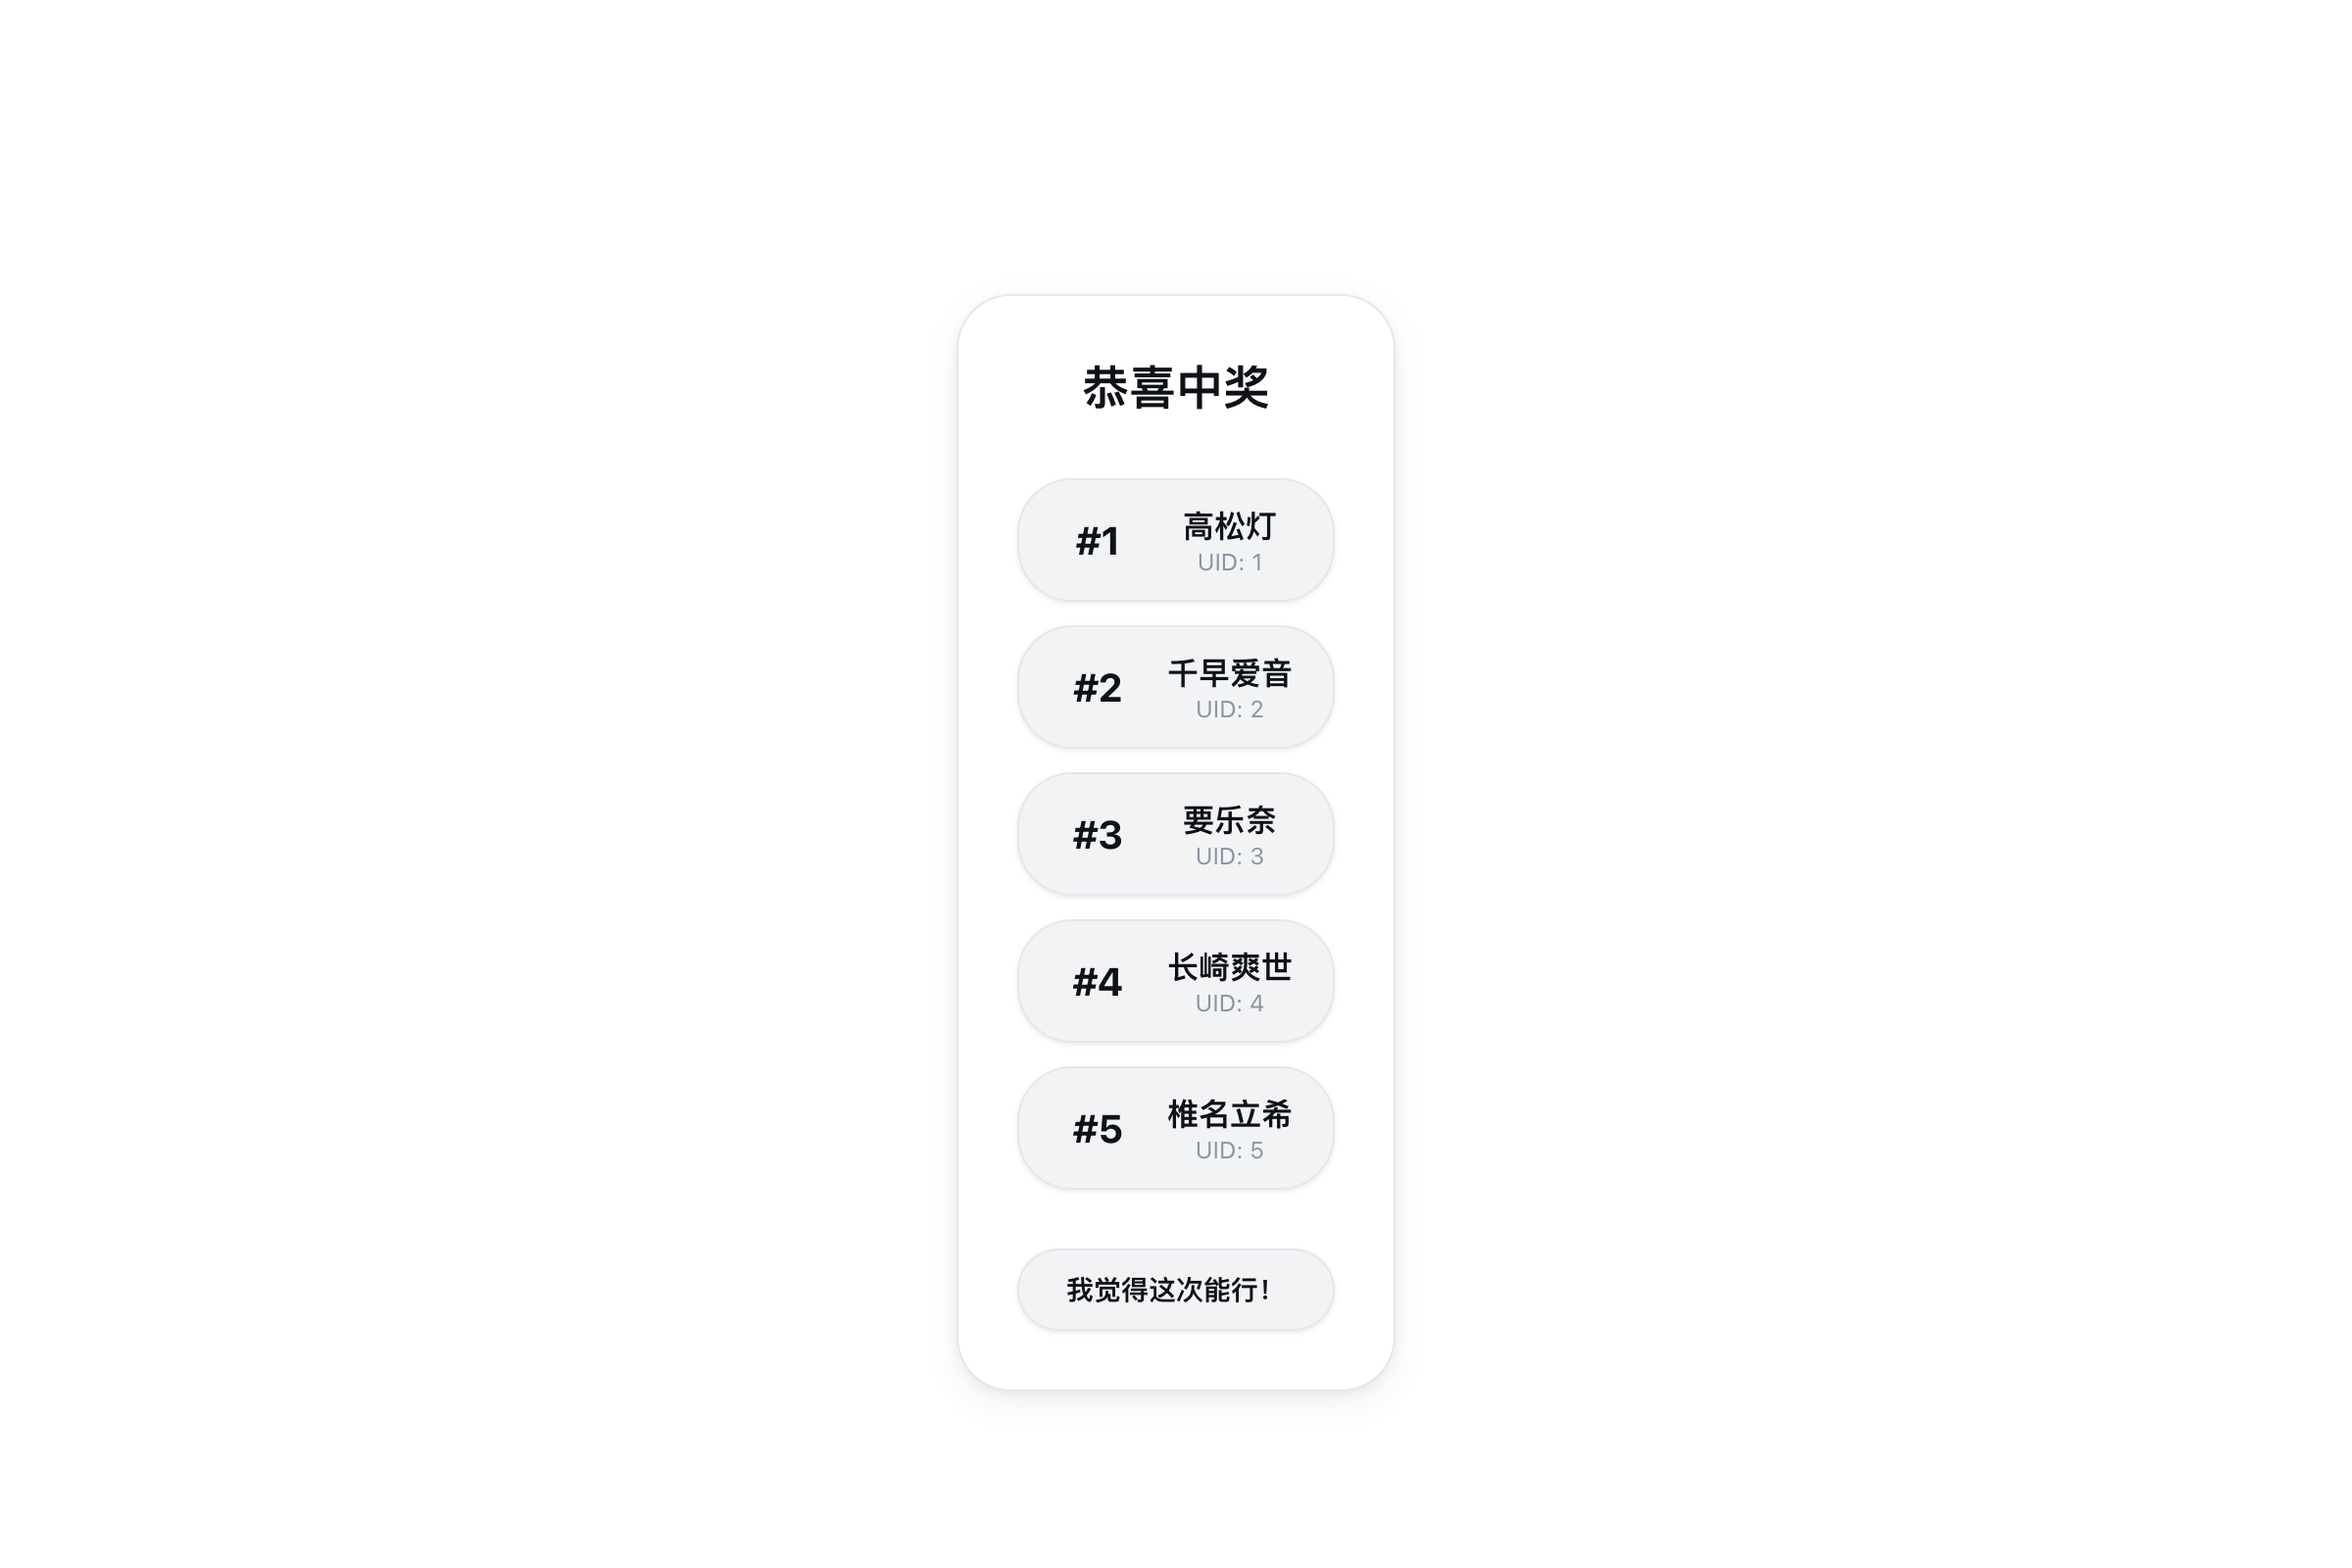
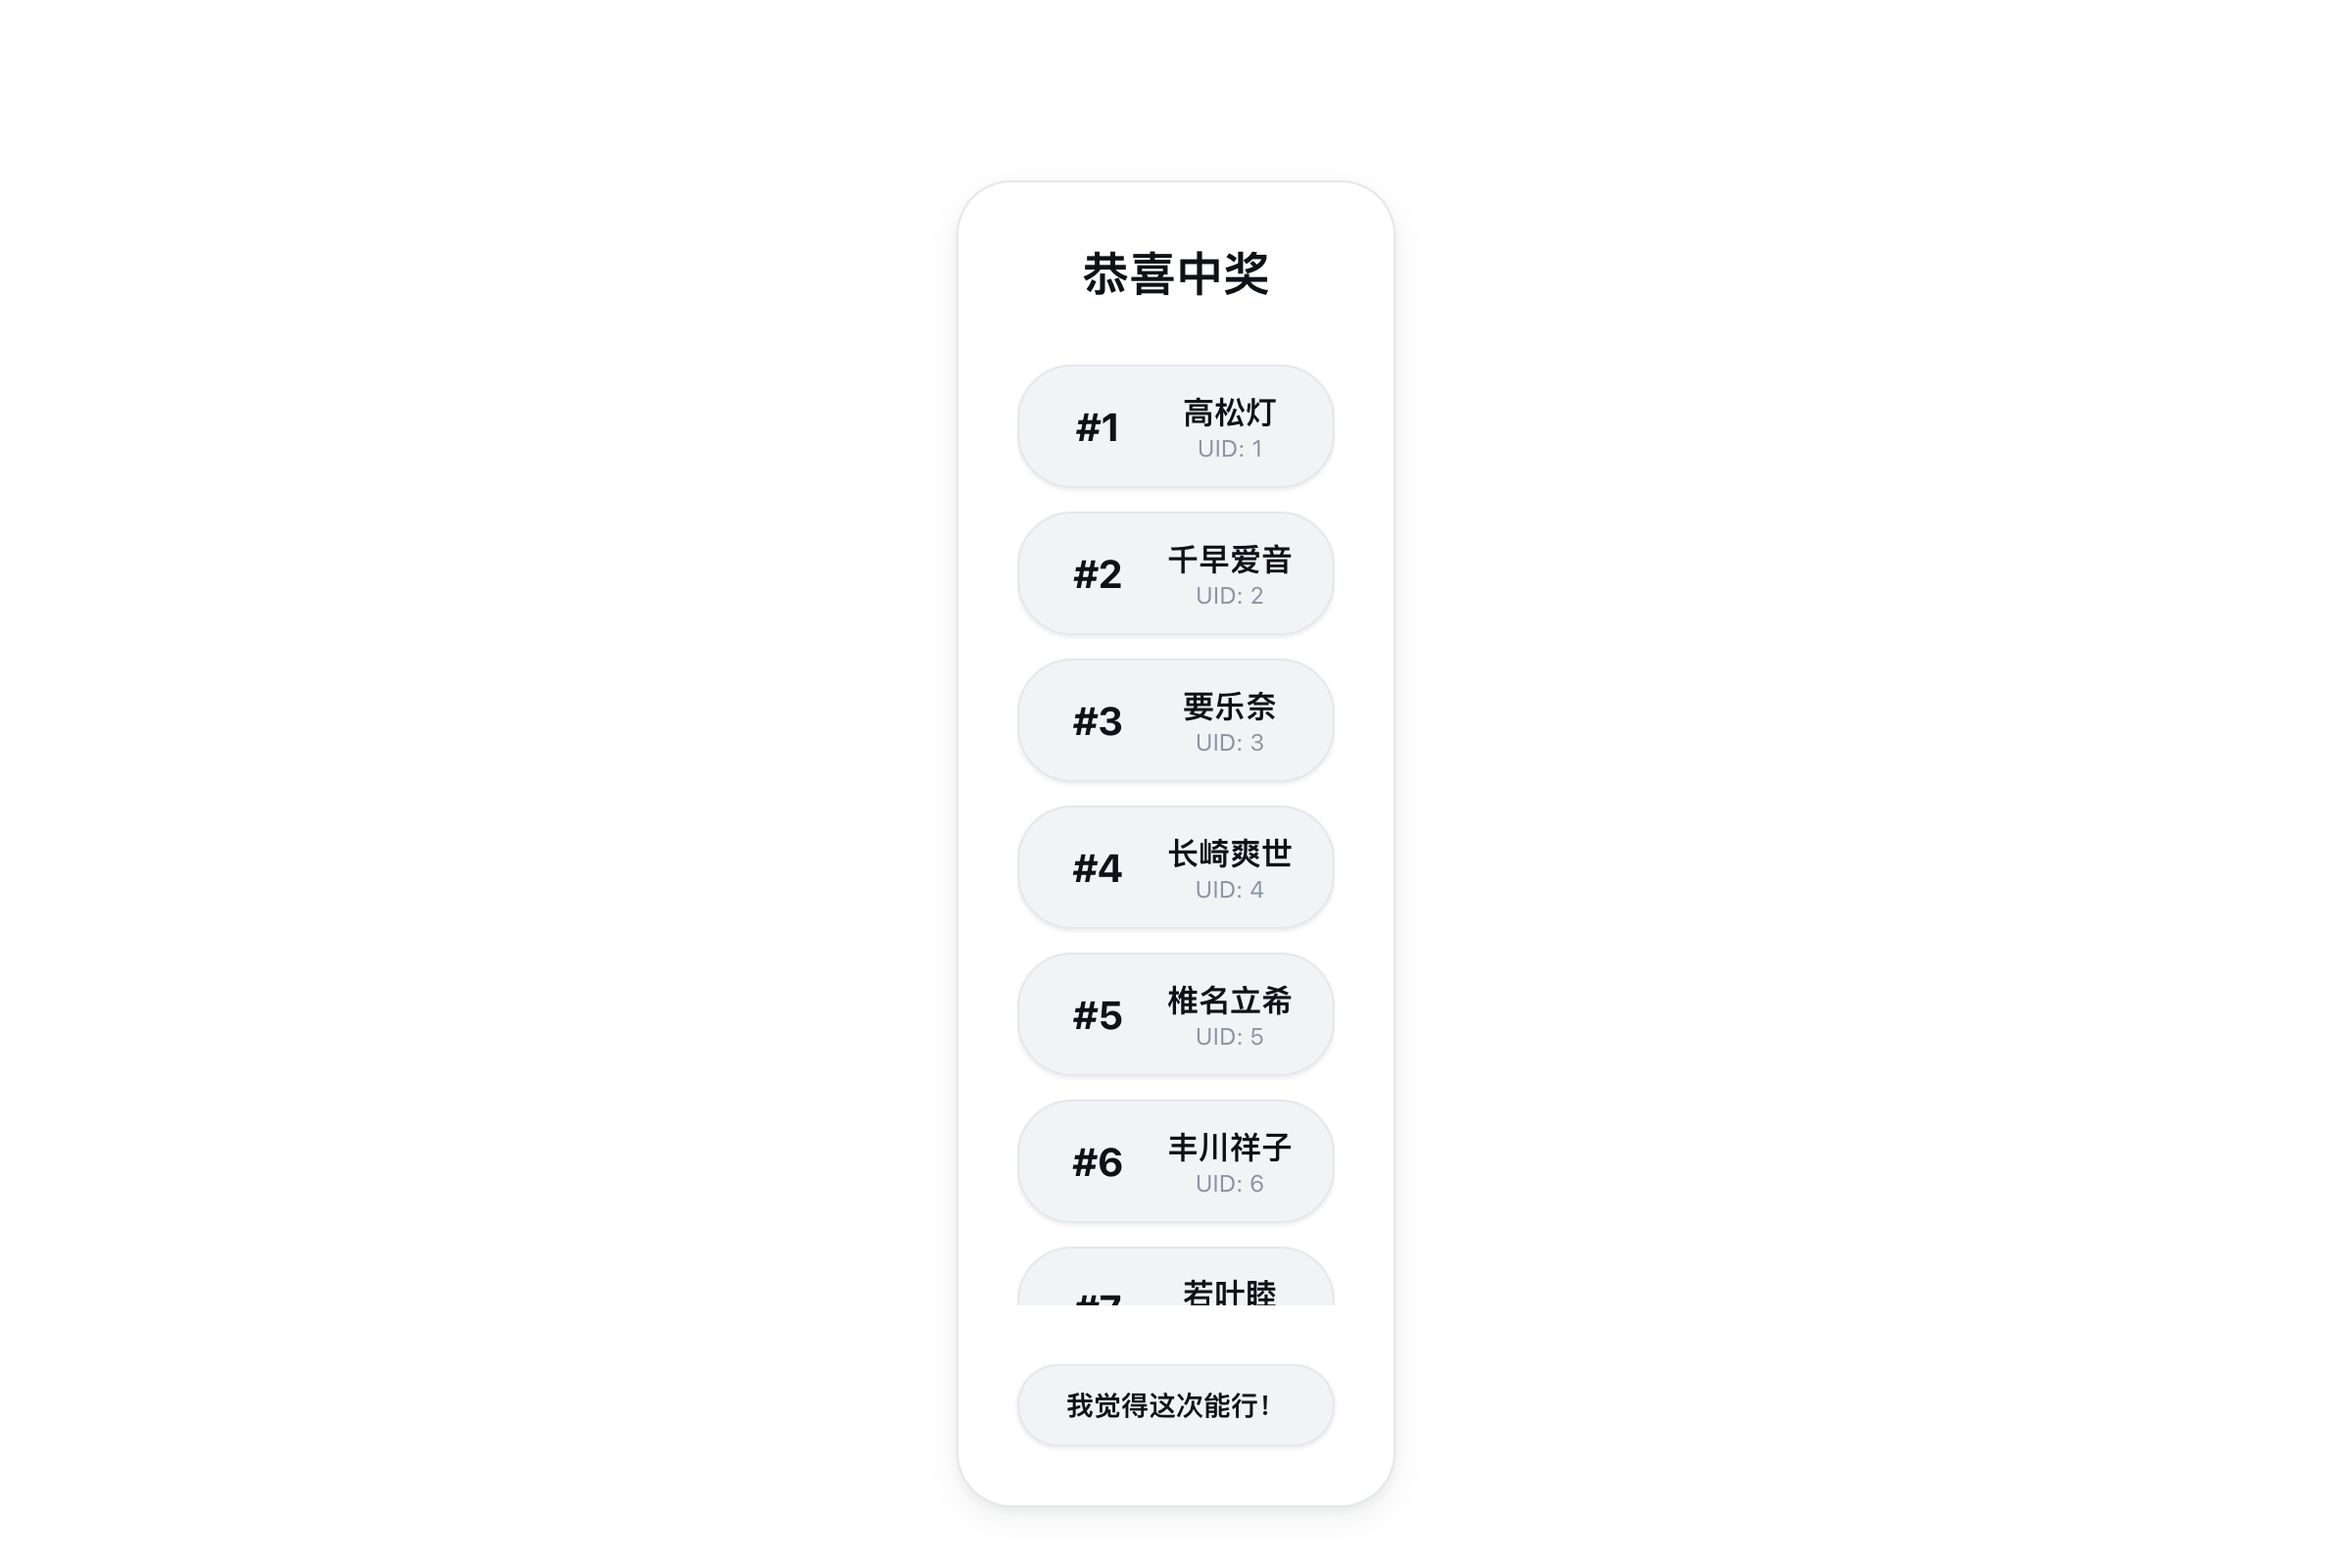
docs: 新增历史/导出说明、截图与开发日志页

diff --git a/docs/.vitepress/config.ts b/docs/.vitepress/config.ts
@@ -33,6 +33,7 @@ export default withMermaid(
 					{ text: '架构', link: '/architecture/overview' },
 					{ text: '开发', link: '/development/setup' },
 					{ text: '应用场景', link: '/use-cases/scenarios' },
+					{ text: '开发日志', link: '/development/changelog' },
 				],
 				sidebar: [
 					{
@@ -61,6 +62,7 @@ export default withMermaid(
 							{ text: '环境准备', link: '/development/setup' },
 							{ text: '构建与打包', link: '/development/build' },
 							{ text: '前端绑定', link: '/development/bindings' },
+							{ text: '开发日志', link: '/development/changelog' },
 						],
 					},
 					{
@@ -80,6 +82,7 @@ export default withMermaid(
 					{ text: 'Architecture', link: '/en/architecture/overview' },
 					{ text: 'Development', link: '/en/development/setup' },
 					{ text: 'Use Cases', link: '/en/use-cases/scenarios' },
+					{ text: 'Changelog', link: '/en/development/changelog' },
 				],
 				sidebar: [
 					{
@@ -108,6 +111,7 @@ export default withMermaid(
 							{ text: 'Setup', link: '/en/development/setup' },
 							{ text: 'Build & Package', link: '/en/development/build' },
 							{ text: 'Frontend Bindings', link: '/en/development/bindings' },
+							{ text: 'Changelog', link: '/en/development/changelog' },
 						],
 					},
 					{

diff --git a/docs/en/intro/features.md b/docs/en/intro/features.md
@@ -13,6 +13,16 @@ Once connected to a live room, the app continuously listens to danmaku. Any view
 
 Keep a separate profile for each scenario — each one holds its own keyword, winner count, watched rooms and background image. Switch with one click before going live; everything is preserved across switches and restarts.
 
+## Draw history & export
+
+Every draw is automatically recorded as a history entry, bound to the active profile — it stores the keyword, winner count, draw time and the full winner list. The "Lottery History" card in Settings shows every entry for the current profile:
+
+- **Export one**: click "Export" on an entry, pick where to save, and the winner list is exported as a Markdown file named `keyword-count-time.md` with a table of nickname + UID.
+- **Delete one**: remove a history entry you no longer need.
+- **Delete all**: clear every entry for the current profile in one click.
+
+Switching profiles switches the history list to that profile's entries. Deleting a profile clears its history along with it.
+
 ## Four themes
 
 Four built-in looks, switchable any time while running:
@@ -32,3 +42,7 @@ Your choice is remembered across restarts. Spring-festival and beach ship with a
 - Custom watched rooms — monitor several rooms at once, with participants merged into one pool
 - Custom winner count — anywhere from 1 to 9999
 - Custom background image — applies under light / dark (spring-festival and beach use their bundled backgrounds)
+
+## Winner-list display
+
+When there are many winners, the winner-list card caps its height and scrolls internally (the scrollbar is hidden), so the lottery page itself never scrolls vertically and stays visually clean.

diff --git a/docs/intro/features.md b/docs/intro/features.md
@@ -13,6 +13,16 @@
 
 为不同场景各存一套配置（Profile），每套独立保存关键词、中奖人数、监控房间和背景图。开播前一键切换，互不干扰，自动保留。
 
+## 抽奖历史与导出
+
+每次开奖都会自动记录一条历史，绑定在当前抽奖配置下——包含关键词、中奖人数、开奖时间和完整中奖名单。在设置页的「抽奖历史」卡片里可以查看某套配置下的全部历史：
+
+- **单条导出**：点击某条历史的「导出」，选择保存位置，中奖名单会以 `关键词-人数-时间.md` 命名导出为 Markdown 文件，内容为「昵称 + UID」的中奖表格。
+- **单条删除**：删除不需要的历史记录。
+- **全部删除**：一键清空当前配置下的所有历史。
+
+切换配置时，历史列表会自动切换到对应配置的记录。删除某套配置时，其下的历史也会一并清除。
+
 ## 四套主题
 
 内置四种界面风格，运行时随时切换：
@@ -32,3 +42,7 @@
 - 自定义监控房间——支持同时监控多个直播间，参与者合并到同一个抽奖池
 - 自定义中奖人数——1 到 9999 随心设置
 - 自定义背景图——日间 / 夜间主题生效（春节和海滩使用自带背景）
+
+## 中奖名单显示优化
+
+中奖人数较多时，中奖名单卡片会限制最大高度，超出部分在卡片内部滚动（滚动条自动隐藏），保证抽奖页面整体不会纵向滚动，视觉始终干净稳定。

diff --git a/docs/en/intro/quickstart.md b/docs/en/intro/quickstart.md
@@ -17,8 +17,15 @@ Open Settings and enter the IDs of the rooms you want to monitor. You can add se
 
 ## 4. Start a draw
 
-Back on the home screen, set the keyword and winner count in the top bar, then click **Start**. As viewers send danmaku containing the keyword, the participant count rises in real time. When you're ready to draw, click **Stop** and the randomly picked winners appear right away.
+Back on the home screen, set the keyword and winner count in the top bar, then click **Start**. As viewers send danmaku containing the keyword, the participant count rises in real time. When you're ready to draw, click **Stop** and the randomly picked winners appear right away. With many winners, the list scrolls inside the card without affecting the page layout.
 
-## 5. Switch theme & language
+## 5. View & export history
+
+Every draw is automatically recorded under the active profile's history. In Settings, the "Lottery History" card lets you:
+
+- Click "Export" on an entry, pick where to save, and the winner list is exported as a Markdown file named `keyword-count-time.md`.
+- Delete a single history entry, or click "Delete All" to clear every entry for the current profile.
+
+## 6. Switch theme & language
 
 In Settings, under "Appearance", you can switch the theme (light / dark / spring-festival / beach) and the language (中文 / English). Changes apply instantly and are remembered.

diff --git a/docs/en/development/changelog.md b/docs/en/development/changelog.md
@@ -1,0 +1,36 @@
+# Changelog
+
+## v1.1
+
+- Draw history is recorded automatically and bound to its profile — switching profiles switches history
+- Export the winner list to Markdown in one click, named `keyword-count-time`
+- Long winner lists scroll inside the card; the lottery page no longer overflows
+
+## v1.0
+
+- Docs site launched, bilingual (zh / en), auto-deployed to GitHub Pages
+- Architecture and data-flow redrawn with Mermaid; docs fully rewritten
+- Fixed message-toast jitter and a QR-login cookie-fetch bug
+
+## v0.9
+
+- Added the beach theme, completing the four-theme set (light / dark / spring-festival / beach)
+- Light / Dark rebuilt to the Cirrus spec — pure CSS, pill corners, layered shadows
+- Built-in zh / en switch, defaulting to Chinese
+
+## v0.8
+
+- Upgraded to Wails v3, switched to a Taskfile build
+- Backend rewritten in layers: app → service → domain + event; service no longer depends on Wails
+- Removed the unused dynamic-lottery dead code
+- `live:user_join` events drive the participant count in real time
+
+## v0.7
+
+- Multiple draw profiles, each with its own keyword, rooms and background — switch with one click
+- QR-code login, alongside Cookie login
+- Auto-reconnect on dropped danmaku connections
+
+## v0.6
+
+- First release: danmaku monitoring, keyword matching, UID dedup, random draw

diff --git a/docs/intro/quickstart.md b/docs/intro/quickstart.md
@@ -17,8 +17,15 @@
 
 ## 4. 开始抽奖
 
-回到首页，在顶栏设置参与关键词和中奖人数，然后点「开始」。观众发送含关键词的弹幕后，参与人数会实时上涨；想开奖时点「停止」，随机抽出的中奖名单会立刻展示出来。
+回到首页，在顶栏设置参与关键词和中奖人数，然后点「开始」。观众发送含关键词的弹幕后，参与人数会实时上涨；想开奖时点「停止」，随机抽出的中奖名单会立刻展示出来。中奖人数较多时，名单会在卡片内滚动，不影响页面整体布局。
 
-## 5. 切换主题与语言
+## 5. 查看与导出历史
+
+每次开奖都会自动记录到当前配置的历史里。进入设置页，在「抽奖历史」卡片可以查看：
+
+- 点击某条历史的「导出」，选择保存位置，中奖名单会以 `关键词-人数-时间.md` 导出为 Markdown。
+- 可以单条删除历史，或点「全部删除」一键清空当前配置下的历史。
+
+## 6. 切换主题与语言
 
 在设置页的「外观」里可以切换主题（日间 / 夜间 / 春节 / 海滩）和语言（中文 / English），切换后立即生效并自动记住。

diff --git a/docs/development/changelog.md b/docs/development/changelog.md
@@ -1,0 +1,36 @@
+# 开发日志
+
+## v1.1
+
+- 抽奖历史自动记录，绑定到对应配置，切换配置即切换历史
+- 中奖名单一键导出为 Markdown，按「关键词-人数-时间」命名
+- 中奖名单超长时卡片内滚动，抽奖页不再被撑出滚动条
+
+## v1.0
+
+- 文档站上线，中英双语，GitHub Pages 自动部署
+- 架构与数据流改用 Mermaid 图表，文档全面重写
+- 修复消息弹窗跳动、扫码登录取不到 Cookie
+
+## v0.9
+
+- 新增海滩主题，凑齐日间 / 夜间 / 春节 / 海滩四套
+- Light / Dark 按 Cirrus 规范重做，纯 CSS、胶囊圆角、双层阴影
+- 内置中英双语切换，默认中文
+
+## v0.8
+
+- 升级 Wails v3，换用 Taskfile 构建
+- 后端分层重写：app → service → domain + event，service 不再依赖 Wails
+- 删掉没人用的动态抽奖死代码
+- 接入 `live:user_join` 事件，参与人数实时跳动
+
+## v0.7
+
+- 多套抽奖配置，各存各的关键词、房间、背景，一键切换
+- 扫码登录上线，和 Cookie 登录二选一
+- 弹幕连接断了自动重连
+
+## v0.6
+
+- 初版：监听弹幕、关键词匹配、UID 去重、随机开奖

diff --git a/docs/intro/product.md b/docs/intro/product.md
@@ -23,9 +23,9 @@ BiliLuckyDraw 是一个为 B 站直播间设计的弹幕抽奖桌面应用。开
 | --- | --- | --- |
 | ![首页](/img/home.png) | ![登录页](/img/login.png) | ![扫码登录](/img/prcode.png) |
 
-| 设置页 | 中奖结果 | |
+| 设置页 | 中奖结果 | 抽奖历史 |
 | --- | --- | --- |
-| ![设置页](/img/settings.png) | ![中奖结果](/img/winners.png) | |
+| ![设置页](/img/settings.png) | ![中奖结果](/img/winners.png) | ![抽奖历史](/img/history.png) |
 
 ## 技术栈
 
